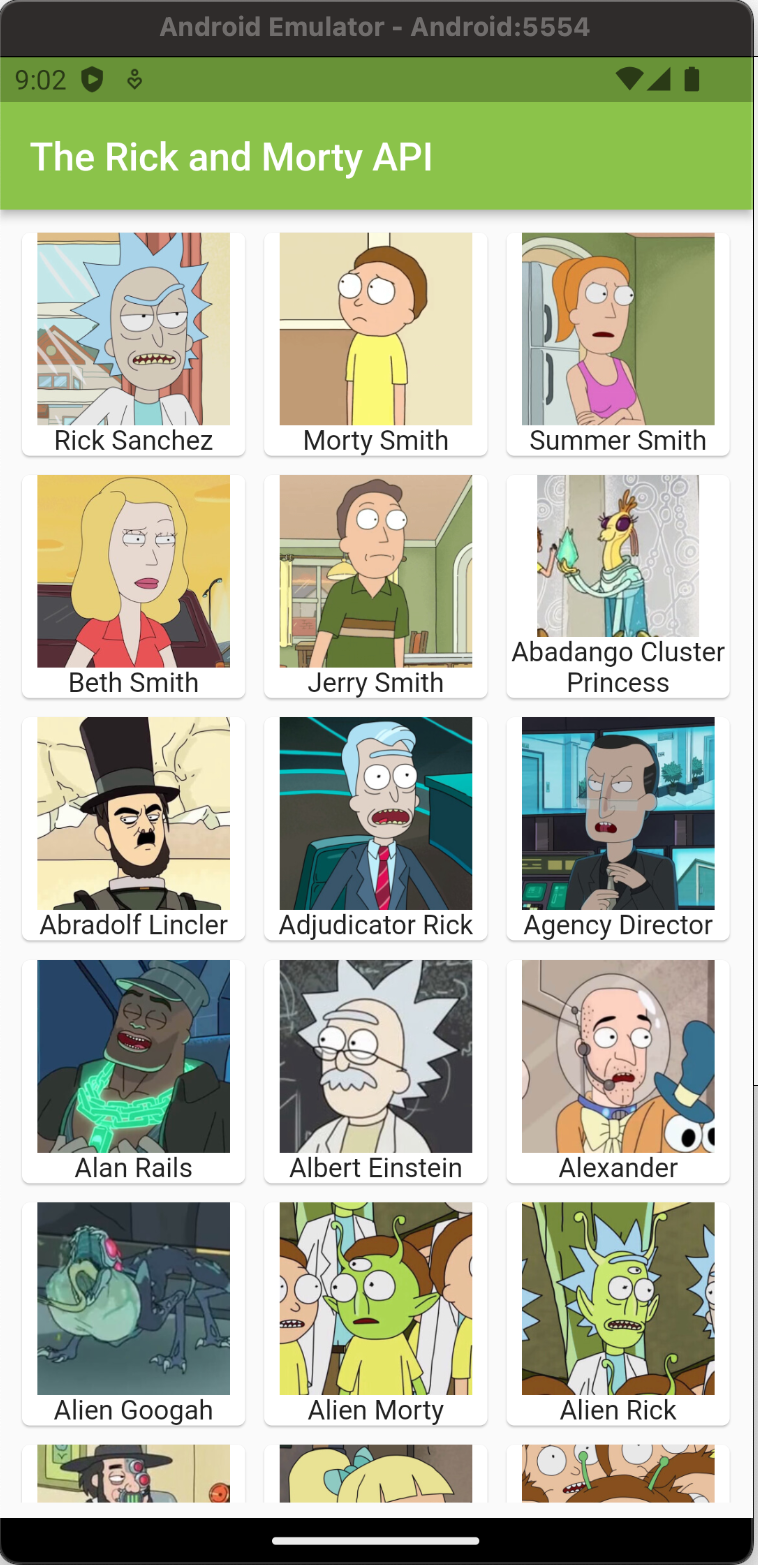
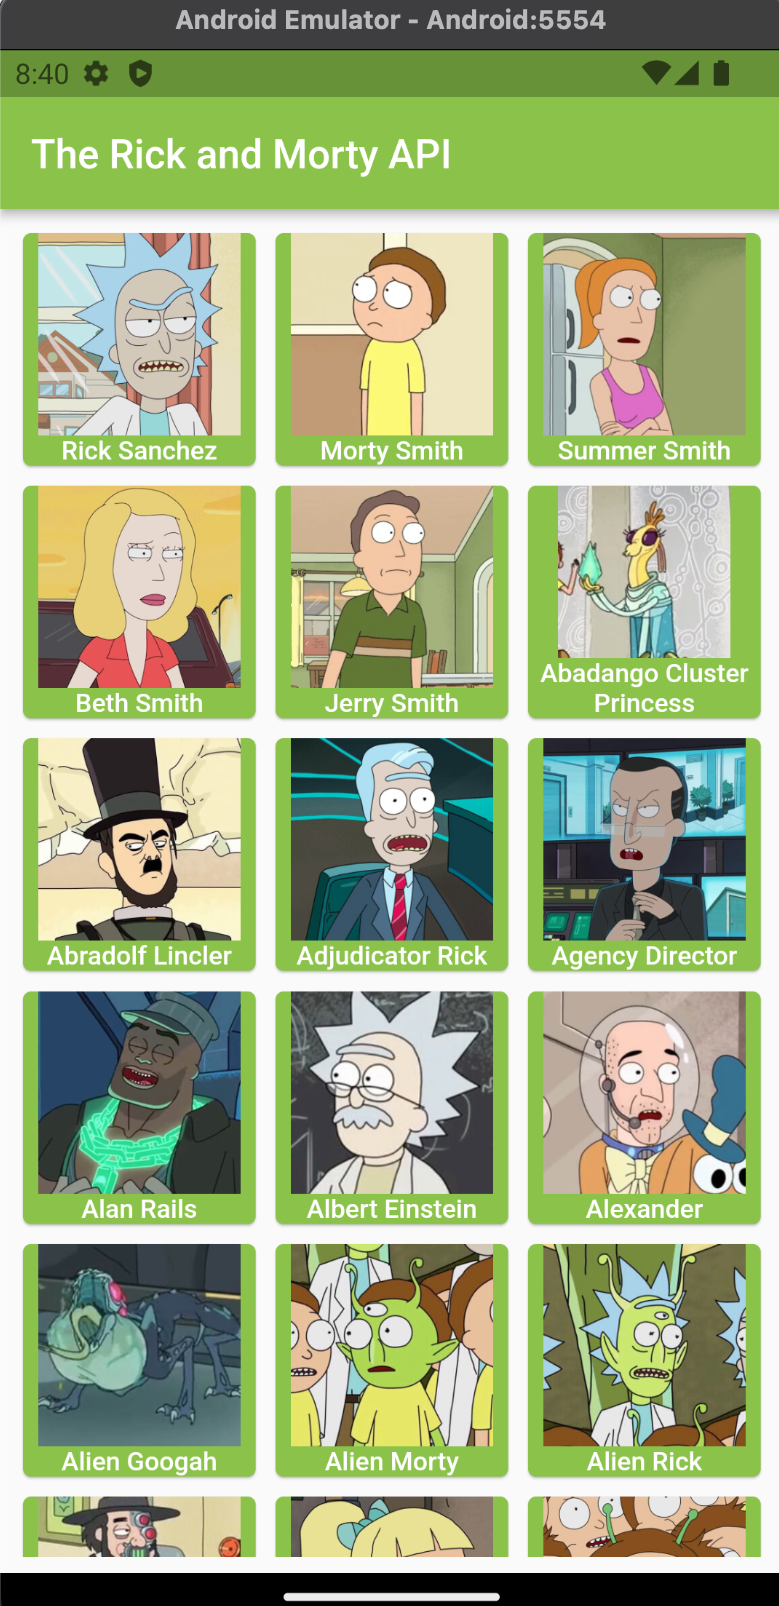
update

diff --git a/lib/list_ of_items.dart b/lib/list_ of_items.dart
@@ -71,6 +71,7 @@ class _ListOffItemsState extends State<ListOffItems> {
                         // print(characters.toString());
                         return InkWell(
                             child: Card(
+                              color: Colors.lightGreen,
                               child: Column(
                                 children: [
                                   Expanded(
@@ -82,6 +83,11 @@ class _ListOffItemsState extends State<ListOffItems> {
                                   Text(
                                     characters[index]['name'],
                                     textAlign: TextAlign.center,
+                                    style: const TextStyle(
+                                      fontSize: 13,
+                                      fontWeight: FontWeight.w500,
+                                      color: Colors.white,
+                                    ),
                                   ),
                                 ],
                               ),
